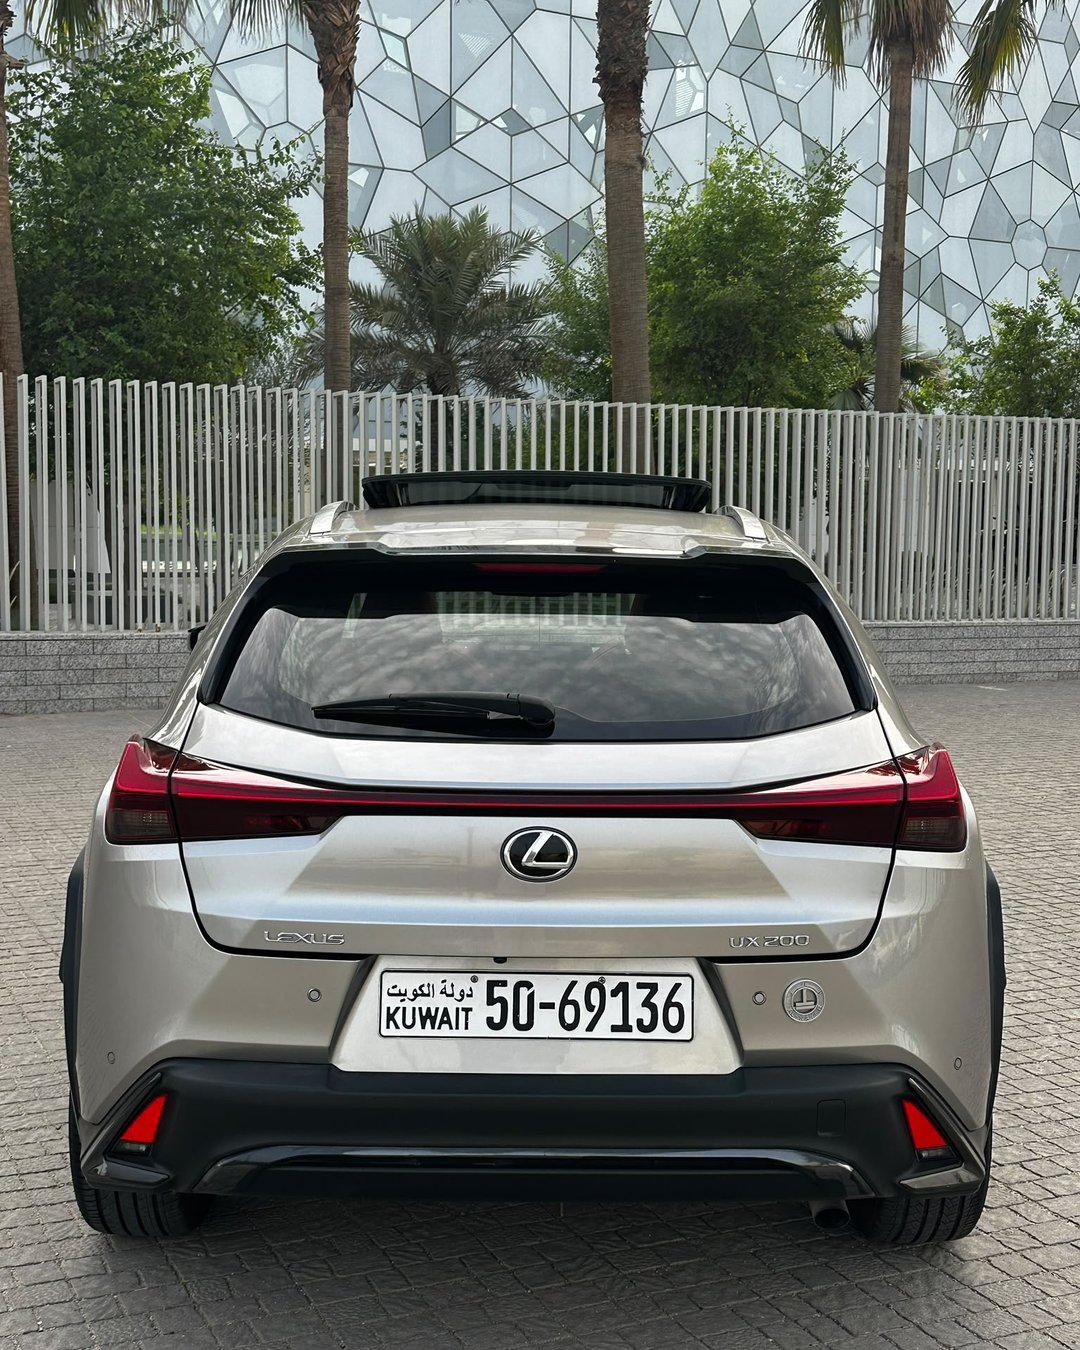
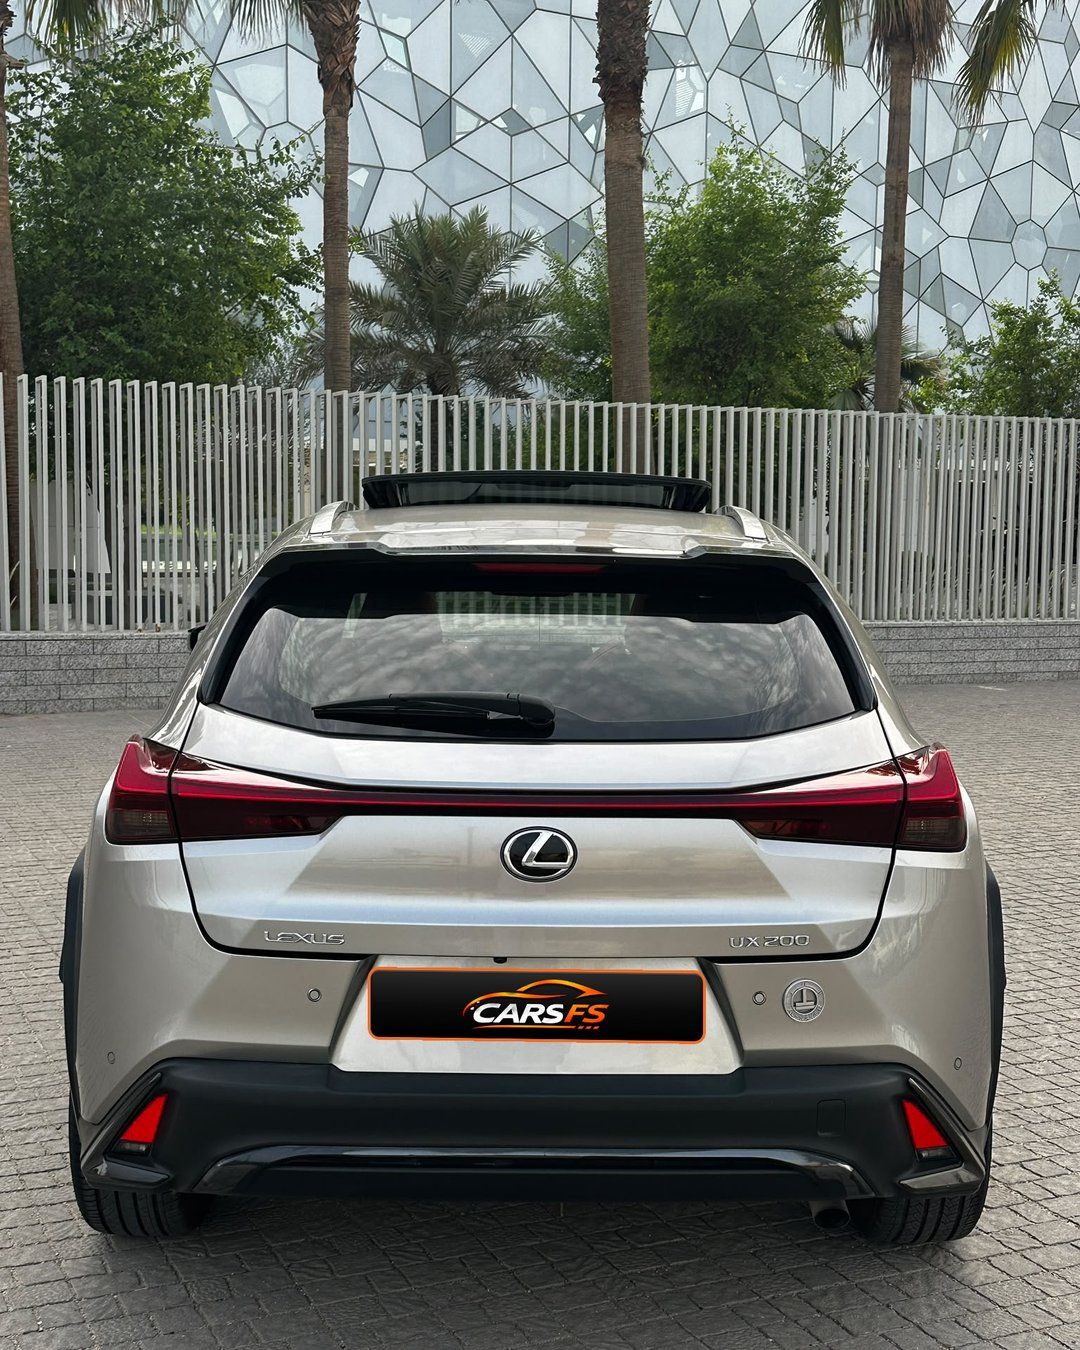
Cover the plate in every Lexus photo; rule: plate covered in all photos
Claude-Session: https://claude.ai/code/session_01KnexkFaeCUqeWLSW3MzjQC

Changed region(s): [[0.3361, 0.7156, 0.6722, 0.7778]]

diff --git a/CLAUDE.md b/CLAUDE.md
@@ -13,9 +13,9 @@
 
 ## خطوات كل سيارة
 1. نتأكد إن الصور أصلية، بدون أي تعديل ذكاء اصطناعي على السيارة أو الخلفية. إذا معدّلة، ننبه صاحب الحساب ونوقف لين توصل الأصلية.
-2. نغطي اللوحة بملصق CARS FS بنفس زاوية اللوحة (`tools/plate/`):
+2. **نغطي اللوحة في كل صورة تبين فيها**، مو بس صورة القالب، بملصق CARS FS بنفس زاوية اللوحة (`tools/plate/`):
    `cd tools/plate && node mksticker.js W H && python3 plate.py in.jpg out.jpg TLx,TLy TRx,TRy BRx,BRy BLx,BLy`
-3. **أول صورة يرسلها صاحب الحساب** هي اللي تنحط في القالب (دايماً، مو "الأوضح")، بدون أي تعديل، وتعبي مربع الصورة كامل: نستخدم `"photoFit": "cover"` (لا تعبئة مغبشة على الجوانب، ولا مربع مصغّر). باقي الصور تنزل في البوست أصلية. صور البوست 1080×1350، والستوري 1080×1920.
+3. **أول صورة يرسلها صاحب الحساب** هي اللي تنحط في القالب (دايماً، مو "الأوضح")، بدون أي تعديل، وتعبي مربع الصورة كامل: نستخدم `"photoFit": "cover"` (لا تعبئة مغبشة على الجوانب، ولا مربع مصغّر). باقي الصور تنزل في البوست أصلية (بدون أي تعديل غير تغطية اللوحة). صور البوست 1080×1350، والستوري 1080×1920.
 4. نعرض التصميم والبوست كامل على صاحب الحساب. **ما ينشر أي شي قبل كلمة «موافق».**
 5. نجدول على انستقرام وتيك توك عن طريق Metricool (الحساب `cars__fs`، blogId 7998955، التوقيت Asia/Kuwait). عنوان تيك توك = أول سطر من الكابشن.
    ستوري انستقرام ينفع عن طريق Metricool، وستوري تيك توك وسناب يدوي.
